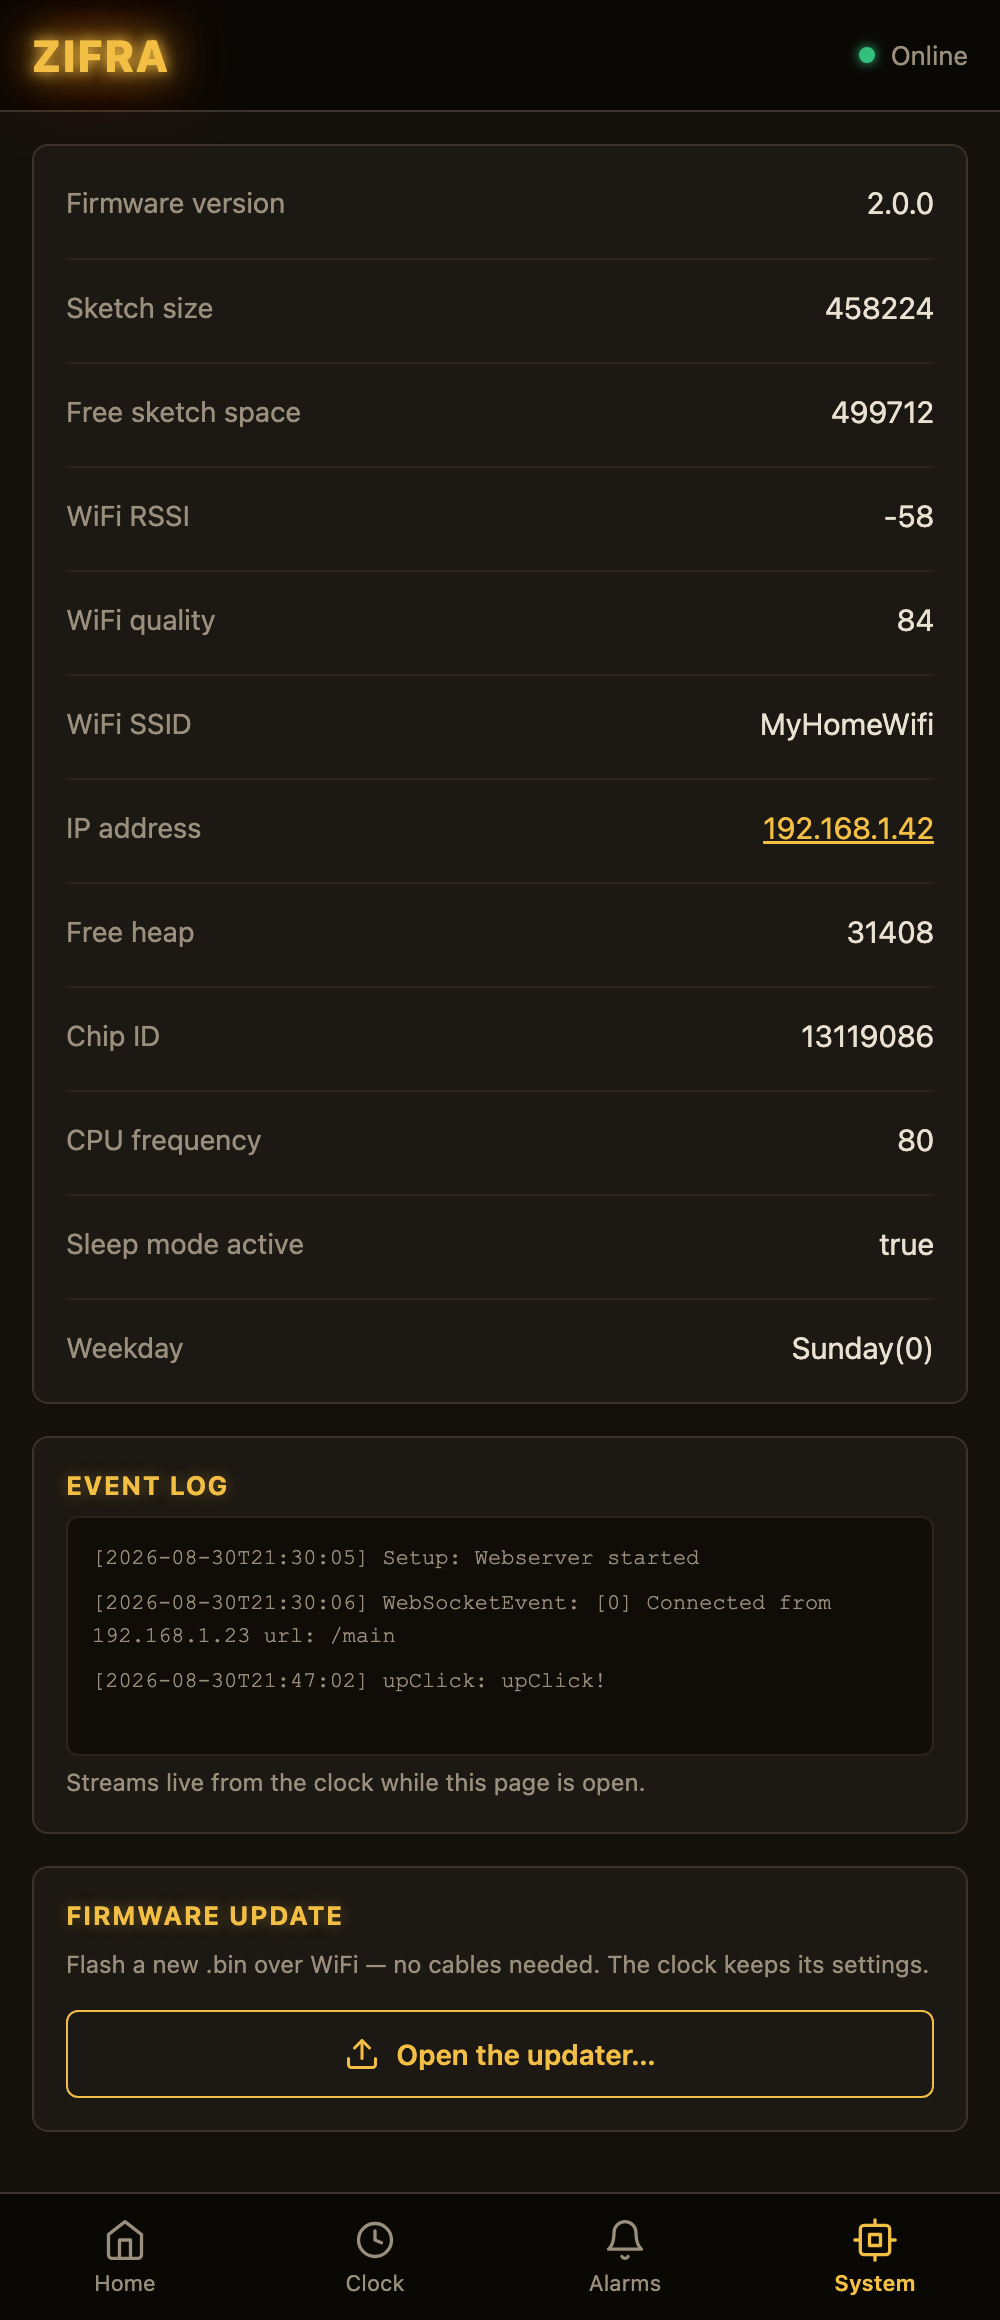
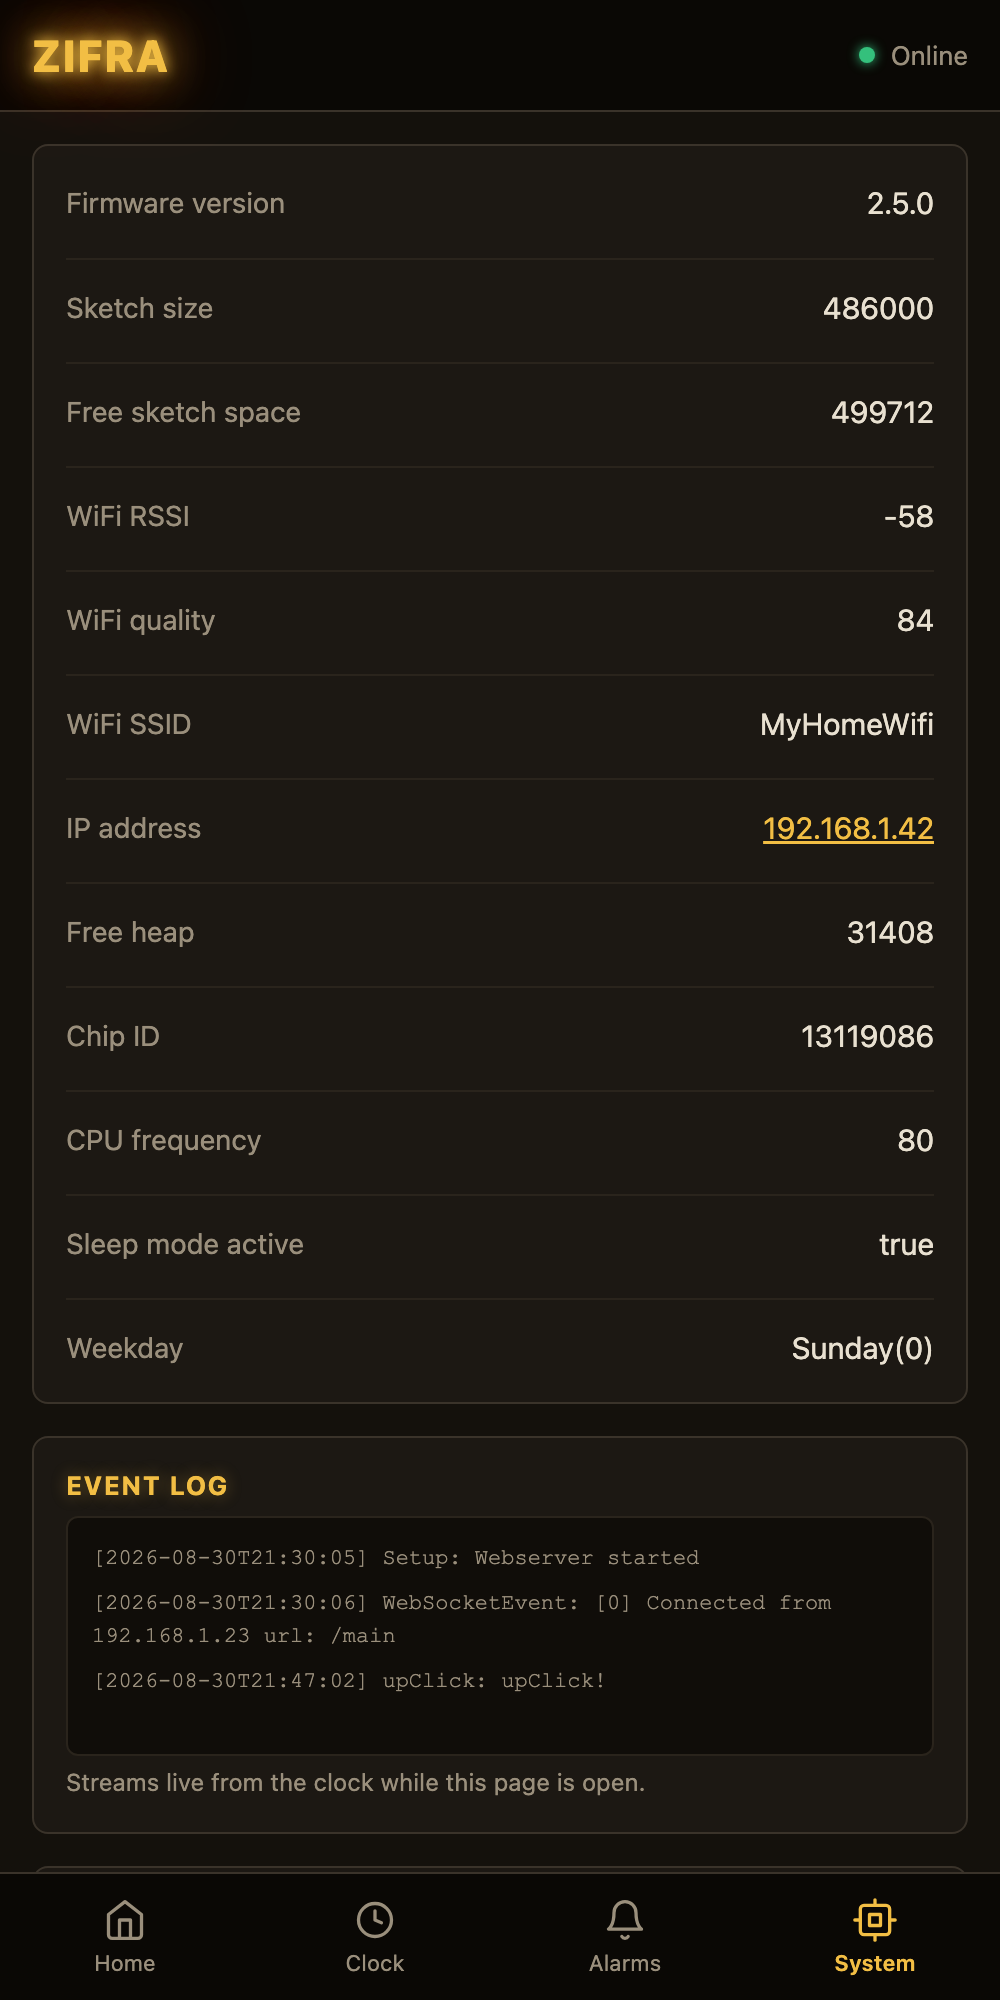
README and screenshots for 2.5.0

diff --git a/README.md b/README.md
@@ -22,8 +22,9 @@ or build your own: the firmware, web interface and 3D-printable enclosure are al
 - automatic summer/winter time switching (European and US daylight-saving rules).
 - built-in buzzer with up to 3 alarms and selectable melodies (shake ZIFRA to mute a ringing alarm).
 - night sleep window that turns the nixie tube off at night (shake to show the time for 3 minutes during sleep).
-- mobile-friendly configuration web interface, reachable at http://zifra.local — no app needed.
-- firmware updates over WiFi, straight from the web interface.
+- mobile-friendly configuration web interface, served by the clock itself at
+  http://zifra.local — no app, no cloud, works on any LAN.
+- firmware updates over WiFi, straight from the web interface (optionally password-protected).
 
 ### Web interface
 
@@ -69,7 +70,8 @@ DS3231 RTC even with WiFi off.
 - **Factory reset** — hold the button for 35 seconds: settings and WiFi
   credentials are wiped and the setup portal opens again.
 - **Firmware updates** — pick a release `.bin` on the *System* page and flash it
-  right there, over WiFi. Settings survive updates.
+  right there, over WiFi. Settings survive updates. Set an *update password* on
+  the same page if other people share your network (user name `zifra`).
 
 ### Firmware downloads
 
@@ -122,11 +124,12 @@ pio run            # or build with PlatformIO
 ```
 
 The web interface lives in [`web/v2/`](web/v2) — a dependency-free ES6 single-page
-app in layered modules (`core` / `state` / `view` / `audio` / `app`), bundled and
-gzipped by two small PHP scripts. The pages the clock serves itself (dashboard
-redirect and the `/update` fallback) are in [`zifra/pages/`](zifra/pages);
-`tools/web/gzip_pages.py` regenerates them as compressed PROGMEM arrays. The
-"Zifra Tube" nixie webfont the UI uses is generated by
+app in layered modules (`core` / `state` / `view` / `audio` / `app`). The clock
+serves it itself: `tools/web/gzip_pages.py` (run by `build.sh`) bundles the JS and
+CSS together with the pages in [`zifra/pages/`](zifra/pages) into gzipped PROGMEM
+arrays in `Webinterface.h`, so no external hosting is involved. The same bundles
+are also published at tehybug.com for firmware older than 2.5. The "Zifra Tube"
+nixie webfont the UI uses is generated by
 [`tools/font/build_font.py`](tools/font/build_font.py). CI builds every push and
 publishes tagged releases from `zifra/src/version.h`.
 
